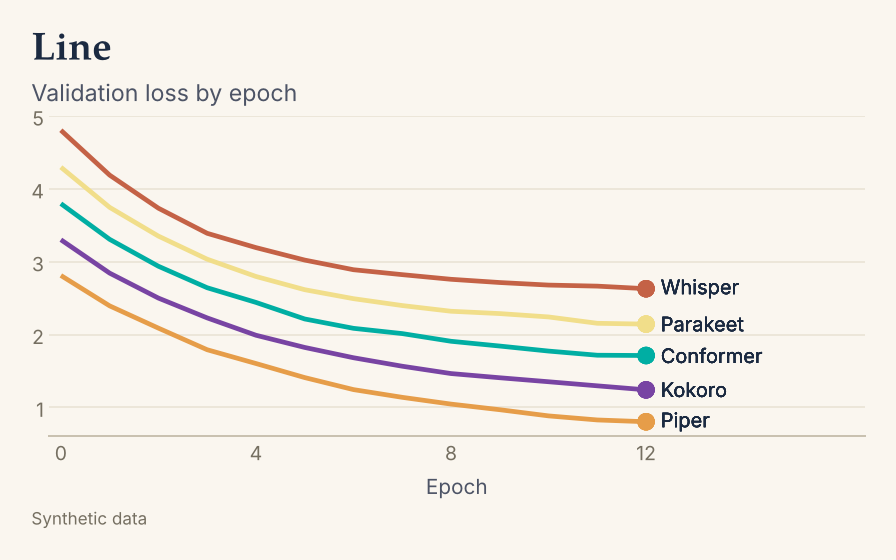
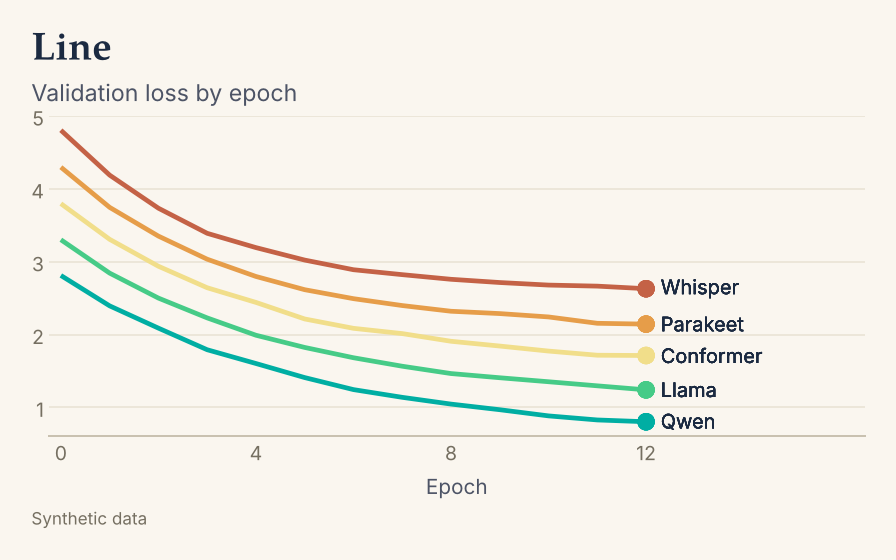
Add files via upload
Order stages STT, LLM, TTS; README hero and palette

diff --git a/examples/mega.py b/examples/mega.py
@@ -20,8 +20,8 @@ out.mkdir(parents=True, exist_ok=True)
 STT = ["Whisper", "Parakeet", "Conformer"]
 TTS = ["Kokoro", "Piper", "XTTS"]
 LLM = ["Llama", "Qwen", "Gemma"]
-NINE = STT + TTS + LLM  # rainbow order
-STAGES = ["STT", "TTS", "LLM"]
+NINE = STT + LLM + TTS  # rainbow order: red..yellow (STT), green..blue (LLM), indigo..pink (TTS)
+STAGES = ["STT", "LLM", "TTS"]
 S = {"P": None, "N": {}}  # current palette and neutrals
 
 
@@ -35,7 +35,7 @@ def sh(name, k=1):
 
 
 def models():
-    return rv.colour_map(NINE)
+    return rv.colour_map(NINE, order="rainbow")
 
 
 def stage_cols():
@@ -90,9 +90,9 @@ def bar():
 
 def stacked():
     pipes = [f"Cascade {k}" for k in "ABCDE"]
-    ms = {"STT": [180, 210, 150, 240, 190], "TTS": [210, 160, 260, 190, 140], "LLM": [520, 410, 640, 380, 450]}
+    ms = {"STT": [180, 210, 150, 240, 190], "LLM": [520, 410, 640, 380, 450], "TTS": [210, 160, 260, 190, 140]}
     d = pd.DataFrame([(p, s, v) for s, vs in ms.items() for p, v in zip(pipes, vs)], columns=["pipe", "stage", "ms"])
-    d["stage"] = pd.Categorical(d["stage"], ["LLM", "TTS", "STT"])
+    d["stage"] = pd.Categorical(d["stage"], ["TTS", "LLM", "STT"])
     d["pipe"] = pd.Categorical(d["pipe"], pipes[::-1])
     tot = d.groupby("pipe", observed=True)["ms"].sum().reset_index()
     return (ggplot(d, aes("pipe", "ms", fill="stage")) + geom_col(width=.68, colour=S["N"]["bg"], size=1.1)
@@ -124,10 +124,10 @@ def candle():
 def area():
     rng = np.random.default_rng(5)
     x = np.arange(0, 25)
-    base = {"STT": 30, "TTS": 22, "LLM": 48}
+    base = {"STT": 30, "LLM": 48, "TTS": 22}
     d = pd.DataFrame([(xi, s, max(4, base[s] + 8 * np.sin(xi / 4 + k) + rng.normal(0, 1.2))) for k, s in enumerate(STAGES)
                       for xi in x], columns=["t", "stage", "v"])
-    d["stage"] = pd.Categorical(d["stage"], ["LLM", "TTS", "STT"])
+    d["stage"] = pd.Categorical(d["stage"], ["TTS", "LLM", "STT"])
     return (ggplot(d, aes("t", "v", fill="stage", colour="stage")) + geom_area(size=.9, position="stack")
             + scale_fill_manual(values=rv.shade_map(stage_cols())) + scale_colour_manual(values=stage_cols())
             + scale_x_continuous(expand=(0, 0)) + scale_y_continuous(expand=(0, 0, .05, 0))
@@ -138,7 +138,7 @@ def area():
 def timeline():
     ev = pd.DataFrame(dict(t=[1, 3.2, 5, 7.5, 10, 12],
                            label=["Kick-off", "Data", "Baseline", "Cascade", "Eval", "Write-up"],
-                           y=[1, -1, 1, -1, 1, -1], stage=["STT", "STT", "TTS", "TTS", "LLM", "LLM"]))
+                           y=[1, -1, 1, -1, 1, -1], stage=["STT", "STT", "LLM", "LLM", "TTS", "TTS"]))
     ev["lab_y"] = ev.y * 1.6
     return (ggplot(ev) + geom_hline(yintercept=0, colour=S["N"]["rule"], size=1.2)
             + geom_segment(aes(x="t", xend="t", y=0, yend="y*1.15", colour="stage"), size=.9)
@@ -201,7 +201,7 @@ def waterfall():
 def grouped():
     pipes = ["A", "B", "C", "D"]
     rng = np.random.default_rng(8)
-    d = pd.DataFrame([(p, s, v) for s, base in (("STT", 190), ("TTS", 190), ("LLM", 480)) for p, v in
+    d = pd.DataFrame([(p, s, v) for s, base in (("STT", 190), ("LLM", 480), ("TTS", 190)) for p, v in
                       zip(pipes, base + rng.normal(0, 40, 4))], columns=["pipe", "stage", "ms"])
     d["stage"] = pd.Categorical(d["stage"], STAGES)
     return (ggplot(d, aes("pipe", "ms", fill="stage", colour="stage"))
@@ -338,7 +338,7 @@ def st_hist():
 
 def st_density():
     rng = np.random.default_rng(11)
-    d = pd.DataFrame([(s, v) for s, mu, sd in (("STT", 5, 1.3), ("TTS", 8, 1.6), ("LLM", 11, 1.9)) for v in rng.normal(mu, sd, 500)],
+    d = pd.DataFrame([(s, v) for s, mu, sd in (("STT", 5, 1.3), ("LLM", 11, 1.9), ("TTS", 8, 1.6)) for v in rng.normal(mu, sd, 500)],
                      columns=["stage", "x"])
     d["stage"] = pd.Categorical(d["stage"], STAGES)
     return (ggplot(d, aes("x", fill="stage", colour="stage")) + geom_density(alpha=.72, size=1)
@@ -359,7 +359,7 @@ def st_box():
 
 def st_violin():
     rng = np.random.default_rng(13)
-    d = pd.DataFrame([(s, v) for s, mu, sd in (("STT", 5, 1.3), ("TTS", 8, 1.6), ("LLM", 11, 1.9)) for v in rng.normal(mu, sd, 400)],
+    d = pd.DataFrame([(s, v) for s, mu, sd in (("STT", 5, 1.3), ("LLM", 11, 1.9), ("TTS", 8, 1.6)) for v in rng.normal(mu, sd, 400)],
                      columns=["stage", "v"])
     d["stage"] = pd.Categorical(d["stage"], STAGES)
     return (ggplot(d, aes("stage", "v", fill="stage", colour="stage")) + geom_violin(size=.9, draw_quantiles=[.5], show_legend=False)

diff --git a/examples/gallery.py b/examples/gallery.py
@@ -19,7 +19,7 @@ rng = np.random.default_rng(7)
 STT = ["Whisper", "Parakeet", "Conformer"]
 LLM = ["Llama", "Qwen", "Gemma"]
 TTS = ["Kokoro", "Piper", "XTTS"]
-NINE = STT + TTS + LLM  # rainbow order: red..yellow (STT), green..blue (TTS), indigo..pink (LLM)
+NINE = STT + LLM + TTS  # rainbow order: red..yellow (STT), green..blue (LLM), indigo..pink (TTS)
 FAMILY = dict(**{m: "STT" for m in STT}, **{m: "LLM" for m in LLM}, **{m: "TTS" for m in TTS})
 
 
@@ -72,7 +72,7 @@ def stages():
         for p, v in zip(pipes, vals):
             rows.append((p, st, v))
     d = pd.DataFrame(rows, columns=["pipeline", "stage", "ms"])
-    d["stage"] = pd.Categorical(d["stage"], ["LLM", "TTS", "STT"])
+    d["stage"] = pd.Categorical(d["stage"], ["TTS", "LLM", "STT"])
     d["pipeline"] = pd.Categorical(d["pipeline"], pipes[::-1])
     tot = d.groupby("pipeline", observed=True)["ms"].sum().reset_index()
     tot["label"] = tot["ms"].astype(str) + " ms"
@@ -81,7 +81,7 @@ def stages():
             + geom_text(aes("pipeline", "ms", label="label"), data=tot, inherit_aes=False, ha="left", nudge_y=14,
                         size=8.5, colour=N["text_2"])
             + coord_flip()
-            + scale_fill_manual(values=base, breaks=["STT", "TTS", "LLM"])
+            + scale_fill_manual(values=base, breaks=["STT", "LLM", "TTS"])
             + scale_y_continuous(limits=(0, 1250), expand=(0, 0))
             + rv.theme_roygbviz(grid="x")
             + theme(legend_position="top", legend_title=element_blank())

diff --git a/examples/swatches.py b/examples/swatches.py
@@ -28,8 +28,8 @@ def block(y, mode):
     ax.add_patch(Rectangle((0.3, y), W - 0.6, 5.05, fill=False, ec="#D9D1BF", lw=0.8))
     ax.text(0.6, y + 0.35, f"{mode.title()} mode", fontsize=12, weight="bold", color=n["text"], va="center", **serif)
     cols = [("STT", p.groups["STT"])] + [(r, p.roles[r]) for r in ("red", "orange", "yellow")] \
-        + [("TTS", p.groups["TTS"])] + [(r, p.roles[r]) for r in ("green", "teal", "blue")] \
-        + [("LLM", p.groups["LLM"])] + [(r, p.roles[r]) for r in ("indigo", "violet", "pink")]
+        + [("LLM", p.groups["LLM"])] + [(r, p.roles[r]) for r in ("green", "teal", "blue")] \
+        + [("TTS", p.groups["TTS"])] + [(r, p.roles[r]) for r in ("indigo", "violet", "pink")]
     for i, (r, base) in enumerate(cols):
         x = 0.6 + i * 0.9
         stage = r in ("STT", "LLM", "TTS")

diff --git a/src/roygbviz/palettes.py b/src/roygbviz/palettes.py
@@ -30,7 +30,7 @@ _COLOURS: dict[tuple[str, str], dict[str, str]] = {
 
 # --- stage (group) colours -------------------------------------------------------------------------
 # For top-level STT / LLM / TTS comparisons: crimson, deep blue and lime from the same rainbow. Each stage leads a block of four
-# neighbouring hues: STT with red, orange, yellow; TTS with green, teal, blue; LLM with indigo, violet, pink.
+# neighbouring hues: STT with red, orange, yellow; LLM with green, teal, blue; TTS with indigo, violet, pink.
 GROUPS: tuple[str, ...] = ("STT", "LLM", "TTS")
 _GROUPS: dict[str, dict[str, str]] = {
     "light": dict(STT="#AC3E5C", LLM="#0062A1", TTS="#ABD865"),

diff --git a/examples/logo.py b/examples/logo.py
@@ -18,7 +18,7 @@ out = Path(sys.argv[1] if len(sys.argv) > 1 else "assets/logo")
 out.mkdir(parents=True, exist_ok=True)
 plt.rcParams["svg.fonttype"] = "path"
 
-ROW = ["STT", "red", "orange", "yellow", "TTS", "green", "teal", "blue", "LLM", "indigo", "violet", "pink"]
+ROW = ["STT", "red", "orange", "yellow", "LLM", "green", "teal", "blue", "TTS", "indigo", "violet", "pink"]
 LETTERS = ["red", "orange", "yellow", "green", "blue", "violet", "indigo", "pink"]  # r o y g b v i z
 
 

diff --git a/README.md b/README.md
@@ -15,7 +15,12 @@
 
 **v0.1.1.** My own plotnine theme and colour palette for research figures.
 
-![Palette](https://raw.githubusercontent.com/KhaiShea/roygbviz/main/assets/palette.png)
+<p align="center">
+<picture>
+  <source media="(prefers-color-scheme: dark)" srcset="https://raw.githubusercontent.com/KhaiShea/roygbviz/main/assets/gallery_dark.png">
+  <img src="https://raw.githubusercontent.com/KhaiShea/roygbviz/main/assets/gallery_light.png" alt="Seven example charts in the Roygbviz theme: lines, bars, stacked bars, levels, scatter, heatmap and diverging" width="900">
+</picture>
+</p>
 
 ## Why I made this
 
@@ -72,12 +77,7 @@ rv.use("light")           # or "dark"
 
 ## Twelve colours from one rainbow
 
-<p align="center">
-<picture>
-  <source media="(prefers-color-scheme: dark)" srcset="https://raw.githubusercontent.com/KhaiShea/roygbviz/main/assets/examples/stages_dark.png">
-  <img src="https://raw.githubusercontent.com/KhaiShea/roygbviz/main/assets/examples/stages_light.png" alt="Stacked bars for STT, TTS and LLM in their stage colours" width="640">
-</picture>
-</p>
+![Palette](https://raw.githubusercontent.com/KhaiShea/roygbviz/main/assets/palette.png)
 
 I built these from Kate Morley's article [A 12-bit rainbow palette](https://iamkate.com/data/12-bit-rainbow/), which she made for National Grid: Live. It explains the problem better than I can, but the short version is this:
 
@@ -97,8 +97,15 @@ Dark mode uses the same hues with only the lightness moved.
 Nine of the twelve are for the models and three are for the stages. Each stage leads its own block of hues, so a stage and its models look like a family:
 
 - **STT** with red, orange, yellow
-- **TTS** with green, teal, blue
-- **LLM** with indigo, violet, pink
+- **LLM** with green, teal, blue
+- **TTS** with indigo, violet, pink
+
+<p align="center">
+<picture>
+  <source media="(prefers-color-scheme: dark)" srcset="https://raw.githubusercontent.com/KhaiShea/roygbviz/main/assets/examples/stages_dark.png">
+  <img src="https://raw.githubusercontent.com/KhaiShea/roygbviz/main/assets/examples/stages_light.png" alt="Stacked bars for STT, LLM and TTS in their stage colours" width="640">
+</picture>
+</p>
 
 **Stages** (default colours)
 
